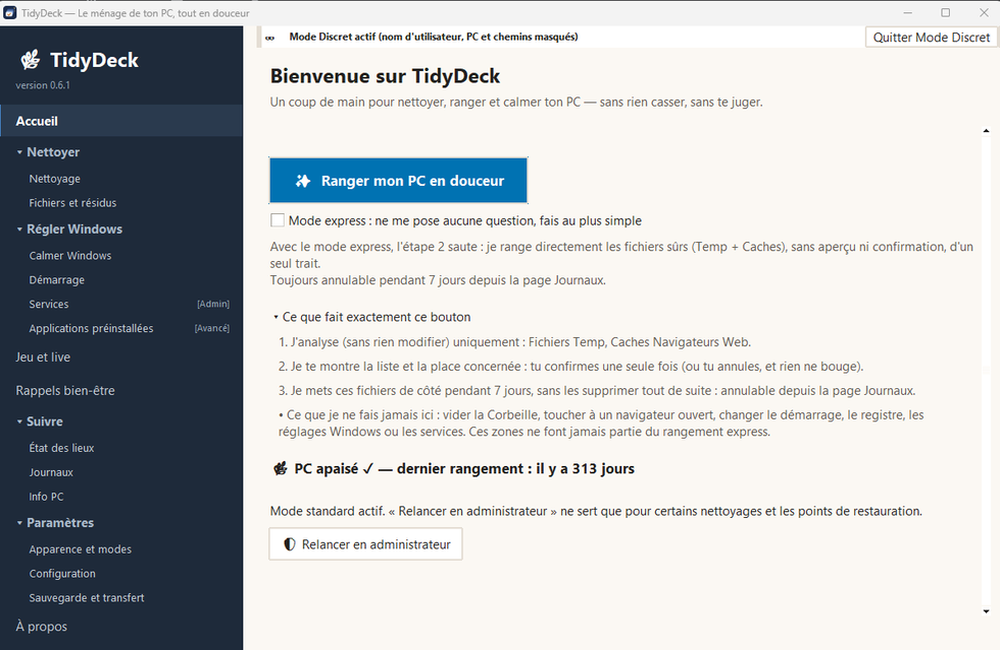
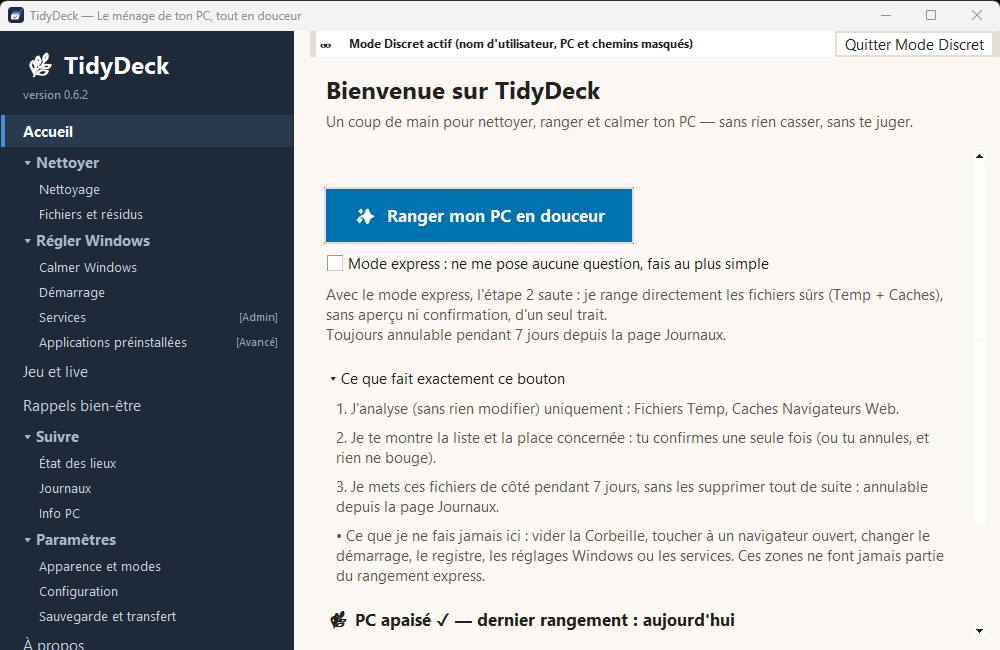
Captures accueil corrigees (dernier rangement du jour) + nouvelle capture page Rappels Son/Visuel inseree apres Demarrage (FR et EN)

Changed region(s): [[0.0, 0.0, 0.992, 1.0], [0.465, 0.9231, 0.744, 0.9846], [0.837, 0.0, 1.0, 0.0923]]

diff --git a/index.html b/index.html
@@ -163,6 +163,10 @@
         <p>Des notifications douces pour faire une pause, s'hydrater ou lâcher l'écran, pensées pour ne pas couper brutalement ta concentration.</p>
         <p>Entièrement paramétrables ou désactivables selon tes envies du moment, avec en prime un minuteur de rendez-vous conçu pour les profils TDAH.</p>
       </div>
+      <figure class="capture">
+        <a href="assets/captures/rappels.png" title="Agrandir la capture"><img src="assets/captures/rappels.png" alt="La page Rappels de TidyDeck : chaque rappel a ses propres cases Son et Visuel" width="1150" height="650" loading="lazy"></a>
+        <figcaption>Rappels : Son, Visuel ou les deux, au choix pour chaque rappel.</figcaption>
+      </figure>
     </div>
 
     <p class="aussi">Et aussi : un journal de tout ce qui a été fait, et un mode « Jeu et live » — les rappels attendent la fin de ta partie.</p>

diff --git a/index-en.html b/index-en.html
@@ -163,6 +163,10 @@
         <p>Gentle notifications to take a break, hydrate, or step away from the screen, designed not to abruptly shatter your focus.</p>
         <p>Fully customizable or disableable to fit your current mood, complete with an appointment countdown timer designed for ADHD minds.</p>
       </div>
+      <figure class="capture">
+        <a href="assets/captures/en/rappels.png" title="Agrandir la capture"><img src="assets/captures/en/rappels.png" alt="The Reminders page: each reminder has its own Sound and Visual checkboxes" width="1000" height="650" loading="lazy"></a>
+        <figcaption>Reminders: Sound, Visual or both, your choice for each reminder.</figcaption>
+      </figure>
     </div>
 
     <p class="aussi">And also: an activity log of everything done, and a "Gaming and streaming" mode — reminders wait until your session ends.</p>
